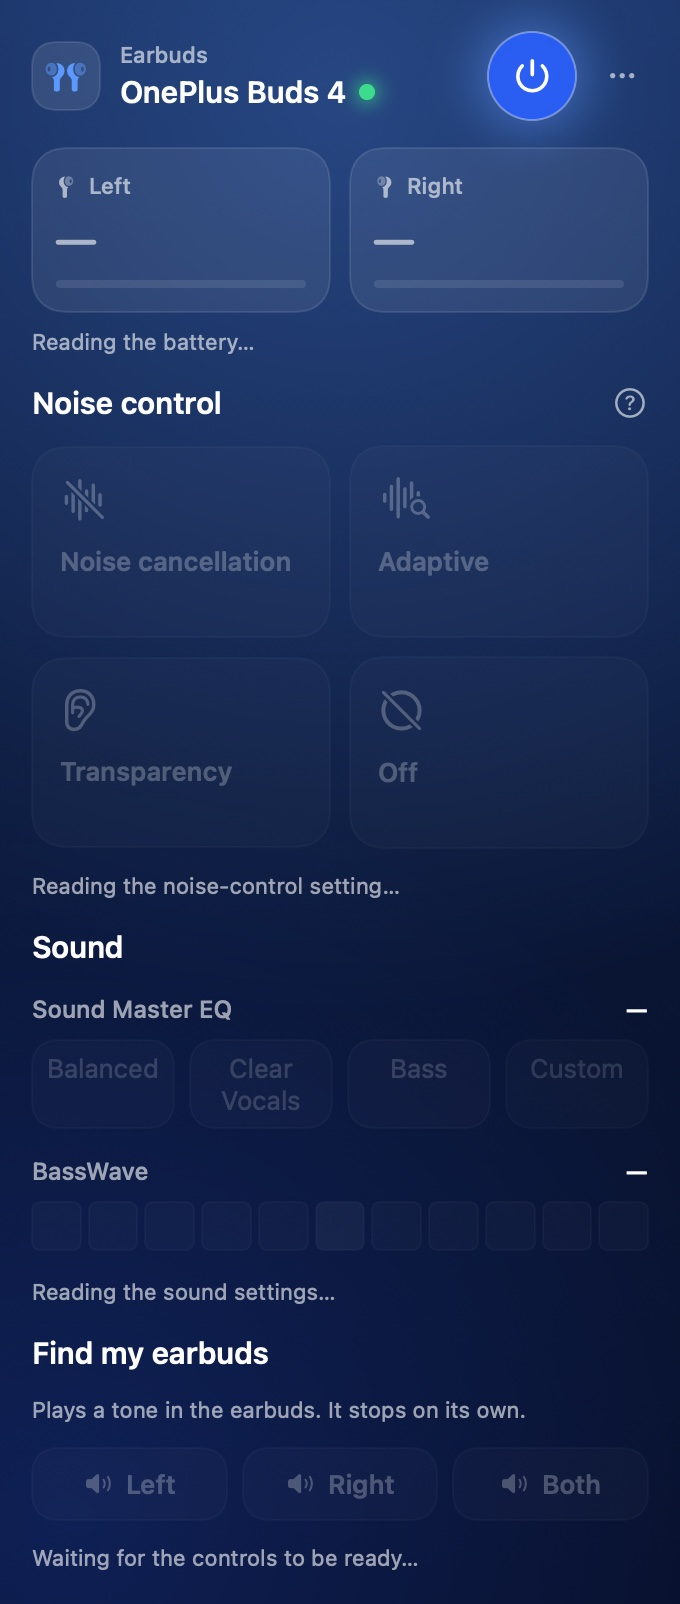
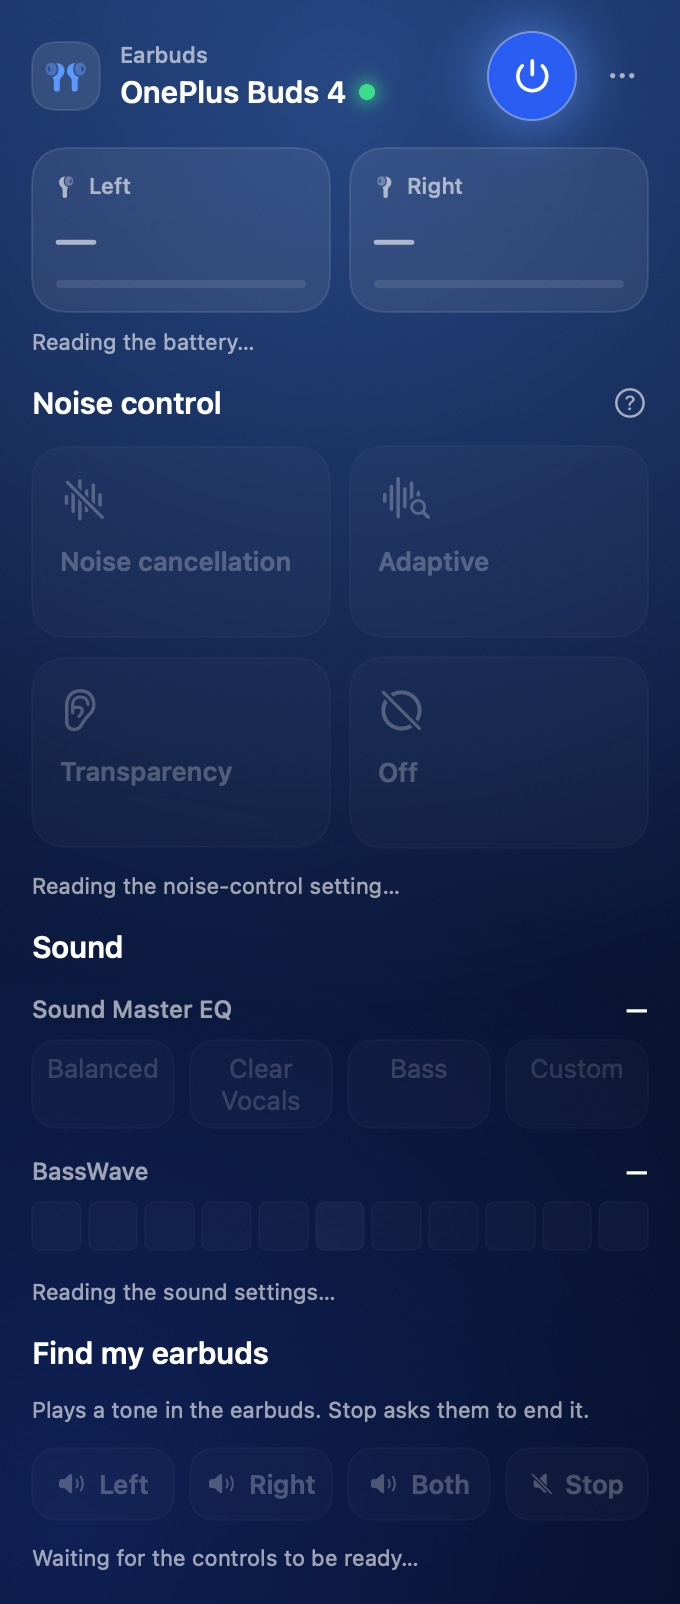
Give find-my-earbuds a Stop, since the vendor app never had one
Ring is the find setter with a slot list, and the app treated the tone as
fire-and-forget on the claim that no stop opcode exists. No capture supports
that claim in either direction: the setter is answered with a bare result
byte whether or not anything rings, so it cannot show a tone starting or
ending. The claim was an inference, not a measurement.

Stop re-uses the same allowlisted setter with an empty slot list — the same
request as "ring nothing". Nothing new goes on the wire. The copy says the
earbuds are asked to end the tone rather than that it has stopped, because
whether the firmware honours an empty list can only be settled by ear.

The row is Left / Right / Both / Stop, and the window, panel and warming
panel goldens are re-recorded. selfCheck grows to 128 checks.

diff --git a/Sources/BudsBarKit/Controls.swift b/Sources/BudsBarKit/Controls.swift
@@ -778,14 +778,21 @@ struct FindMyEarbudsSection: View {
             Text("Find my earbuds")
                 .font(.system(size: 15, weight: .semibold))
 
-            Text("Plays a tone in the earbuds. It stops on its own.")
+            // The vendor app only rings, and no capture can show whether the firmware acts on a
+            // stop, so the sentence says the earbuds are *asked* rather than promising silence.
+            Text("Plays a tone in the earbuds. Stop asks them to end it.")
                 .font(.system(size: 11))
                 .foregroundStyle(Theme.secondary)
 
             HStack(spacing: 8) {
-                ringButton("Left", slots: [.left], name: "left earbud")
-                ringButton("Right", slots: [.right], name: "right earbud")
-                ringButton("Both", slots: [.left, .right], name: "both earbuds")
+                findButton("Left", glyph: "speaker.wave.2.fill",
+                           spoken: "Play a tone in the left earbud") { buds.find([.left]) }
+                findButton("Right", glyph: "speaker.wave.2.fill",
+                           spoken: "Play a tone in the right earbud") { buds.find([.right]) }
+                findButton("Both", glyph: "speaker.wave.2.fill",
+                           spoken: "Play a tone in both earbuds") { buds.find([.left, .right]) }
+                findButton("Stop", glyph: "speaker.slash.fill",
+                           spoken: "Ask the earbuds to stop the tone") { buds.stopFind() }
             }
 
             if !enabled {
@@ -795,13 +802,11 @@ struct FindMyEarbudsSection: View {
         .disabled(!enabled)
     }
 
-    private func ringButton(_ title: String, slots: [BudsProtocol.BatterySlot],
-                            name: String) -> some View {
-        Button {
-            buds.find(slots)
-        } label: {
+    private func findButton(_ title: String, glyph: String, spoken: String,
+                            action: @escaping () -> Void) -> some View {
+        Button(action: action) {
             HStack(spacing: 6) {
-                Image(systemName: "speaker.wave.2.fill")
+                Image(systemName: glyph)
                     .font(.system(size: 11, weight: .medium))
                     .accessibilityHidden(true)
                 Text(title).font(.system(size: 13, weight: .semibold))
@@ -821,7 +826,7 @@ struct FindMyEarbudsSection: View {
         .opacity(channelDim(enabled))
         // The button's own label is one word — "Both" — and the old spoken name was
         // "Play a tone in the Both earbud". The spoken name is written out in full.
-        .accessibilityLabel("Play a tone in the \(name)")
+        .accessibilityLabel(spoken)
     }
 }
 

diff --git a/Sources/BudsBarKit/Protocol.swift b/Sources/BudsBarKit/Protocol.swift
@@ -501,8 +501,13 @@ enum BudsProtocol {
                          payload: [0xfb, 0x05, UInt8(bitPattern: clamped)])
     }
 
-    /// Rings the given buds. Fire-and-forget: the tone stops itself and there is no opcode to
-    /// stop it early, so the UI must not offer one.
+    /// Rings the given buds — or, with an empty list, asks them to stop.
+    ///
+    /// The payload names the slots to ring, so naming none is the one stop request this
+    /// vocabulary can express, and it needs no id the corpus does not already allow. A capture
+    /// cannot settle whether the firmware honours an empty list — the setter is answered with a
+    /// bare result byte whether it rings or not — so this stays a request, and the UI offers
+    /// Stop beside Ring instead of claiming the tone is over.
     static func encodeFind(_ slots: [BatterySlot]) -> [UInt8] {
         // The count is one byte: more than 255 buds cannot be named. The UI offers two. Truncate
         // rather than trap, so a bad caller loses the command instead of the process.
@@ -1160,6 +1165,8 @@ enum BudsProtocol {
         check(tail(encodeFind([.left]), from: 9) == [0x01, 0x01], "find left only")
         check(tail(encodeFind([.right]), from: 9) == [0x01, 0x02], "find right only")
         check(tail(encodeFind([.left, .right]), from: 9) == [0x02, 0x01, 0x02], "find both")
+        // Stop is the same setter naming no buds at all, so its whole payload is the zero count.
+        check(tail(encodeFind([]), from: 9) == [0x00], "find stop names no buds")
 
         // MARK: Frames that must not move anything
 

diff --git a/Sources/BudsBarKit/Buds.swift b/Sources/BudsBarKit/Buds.swift
@@ -671,10 +671,20 @@ final class Buds: NSObject, IOBluetoothRFCOMMChannelDelegate {
         refreshAfterSet()
     }
 
-    /// Rings the given buds. There is no stop opcode — the tone self-terminates — so this is
-    /// deliberately fire-and-forget.
+    /// Rings the given buds.
     func find(_ slots: [BudsProtocol.BatterySlot] = [.left, .right]) {
         send(BudsProtocol.encodeFind(slots))
+    }
+
+    /// Asks the buds to end a tone that `find` started.
+    ///
+    /// The vendor app only ever rings: the corpus has no stop frame, and the setter is answered
+    /// with a bare result byte whether or not a tone is playing, so no capture can confirm a
+    /// stop. This re-uses the allowlisted find setter with an empty slot list — the same request
+    /// as "ring nothing" — and the UI words it as a request, not as a fact, because whether the
+    /// firmware honours it can only be settled by ear.
+    func stopFind() {
+        send(BudsProtocol.encodeFind([]))
     }
 
     /// What a gesture currently does, taken from the left earbud. The phone keeps the two in

diff --git a/README.md b/README.md
@@ -30,7 +30,9 @@ readback against the hardware, not a display-only imitation.
   an AirPods-style floating popup when the buds connect.
 - **In-ear detection** — each slot reports whether that bud is in use, resting in the case,
   or being held.
-- **Find my earbuds** — rings the left, the right, or both.
+- **Find my earbuds** — rings the left, the right, or both, and offers a Stop that asks the
+  buds to end the tone. The vendor app has no Stop; the request re-uses the find setter with no
+  earbuds named, and whether the firmware honours it is the one thing a capture cannot show.
 - **Earbud controls** — remaps the media touch gestures (double tap, triple tap, touch and
   hold, slide) to what the buds actually support. Only the media context is remappable.
 - **Firmware readout** — the string the earbuds report, shown exactly as they report it: a
@@ -128,7 +130,7 @@ The app is `BudsBarKit`, a library, plus a four-line executable at
 `Sources/OnePlusBuds4/main.swift`. That split is what lets `swift test` reach the protocol and
 the views without launching the app.
 
-- **The buds' own readbacks.** `--selfcheck` exercises the wire format in 127 checks, but the
+- **The buds' own readbacks.** `--selfcheck` exercises the wire format in 128 checks, but the
   hardware is the only thing that settles what a write did. Every mode and level was set and
   read back; when this app sent `0x02` for Transparency the firmware stored Noise cancellation,
   which is how that bug was found.
@@ -185,8 +187,10 @@ Being explicit about the gaps, so nobody mistakes them for settled:
   no setter for the toggle has ever been seen. The frame is recognised as a notification and
   ignored, the same treatment every unmodelled topic gets, rather than a device list invented
   from a single sample. More captures close this the way the rest of the protocol was closed.
-- **What the find-my-earbuds tone sounds like.** The command is sent and accepted; it was
-  never confirmed by ear on both buds.
+- **The find-my-earbuds tone.** Ringing is answered with a bare result byte, so no capture shows
+  a tone starting or stopping, and neither the ring nor the stop was confirmed by ear. Stop sends
+  the same allowlisted setter with an empty slot list — the only stop this vocabulary can
+  express — and the UI words it as a request rather than as a fact.
 - **Slide → "Volume control".** The label is from the protocol write-up. That a slide changes
   *volume* rather than scrolling was not measured.
 - **Custom EQ is read-only.** The upload format has never been transmitted by anyone and there
